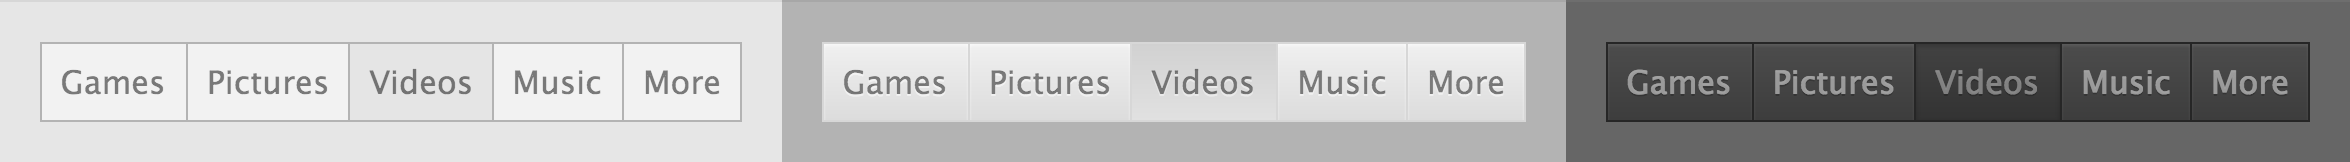
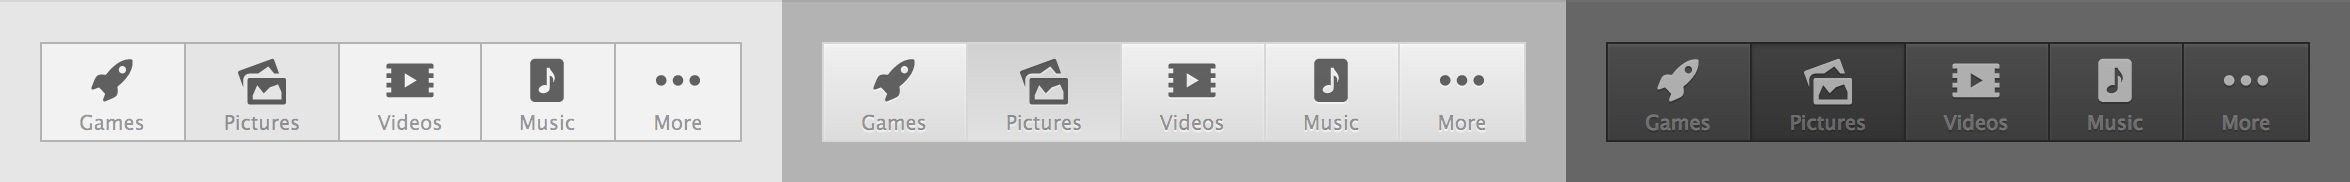
Updated some docs and screenshots

diff --git a/README.md b/README.md
@@ -5,12 +5,22 @@ Add a symlink to Montage in node_mudules/
 
 ### Components
 
-![Button](https://raw.github.com/montagejs/montage-lab/master/skeleton/mobile/components/button.reel/screenshot.png)
-![Toggle](https://raw.github.com/montagejs/montage-lab/master/skeleton/mobile/components/toggle.reel/screenshot.png)
-![Checkbox](https://raw.github.com/montagejs/montage-lab/master/skeleton/mobile/components/input-checkbox.reel/screenshot.png)
-![Radio](https://raw.github.com/montagejs/montage-lab/master/skeleton/mobile/components/input-radio.reel/screenshot.png)
-![Select](https://raw.github.com/montagejs/montage-lab/master/skeleton/mobile/components/select.reel/screenshot.png)
-![Text](https://raw.github.com/montagejs/montage-lab/master/skeleton/mobile/components/input-text.reel/screenshot.png)
-![Textarea](https://raw.github.com/montagejs/montage-lab/master/skeleton/mobile/components/textarea.reel/screenshot.png)
-![Range](https://raw.github.com/montagejs/montage-lab/master/skeleton/mobile/components/input-range.reel/screenshot.png)
-![Progress](https://raw.github.com/montagejs/montage-lab/master/skeleton/mobile/components/progress.reel/screenshot.png)
+![Button](https://raw.github.com/montagejs/digit/master/button.reel/screenshot.png)
+![Button Group](https://raw.github.com/montagejs/digit/master/button-group.reel/screenshot.png)
+![Toggle](https://raw.github.com/montagejs/digit/master/toggle.reel/screenshot.png)
+![Checkbox](https://raw.github.com/montagejs/digit/master/input-checkbox.reel/screenshot.png)
+![Radio](https://raw.github.com/montagejs/digit/master/input-radio.reel/screenshot.png)
+![Select](https://raw.github.com/montagejs/digit/master/select.reel/screenshot.png)
+![Text](https://raw.github.com/montagejs/digit/master/input-text.reel/screenshot.png)
+![Textarea](https://raw.github.com/montagejs/digit/master/textarea.reel/screenshot.png)
+![Number](https://raw.github.com/montagejs/digit/master/input-number.reel/screenshot.png)
+![Range](https://raw.github.com/montagejs/digit/master/input-range.reel/screenshot.png)
+![Progress](https://raw.github.com/montagejs/digit/master/progress.reel/screenshot.png)
+
+![Video](https://raw.github.com/montagejs/digit/master/video.reel/screenshot.png)
+![Map](https://raw.github.com/montagejs/digit/master/map.reel/screenshot.png)
+
+![Header](https://raw.github.com/montagejs/digit/master/header.reel/screenshot.png)
+![Tool Bar](https://raw.github.com/montagejs/digit/master/tool-bar.reel/screenshot.png)
+![List](https://raw.github.com/montagejs/digit/master/list.reel/screenshot.png)
+![Tab Bar](https://raw.github.com/montagejs/digit/master/tab-bar.reel/screenshot.png)

diff --git a/tab-bar.reel/README.md b/tab-bar.reel/README.md
@@ -1,7 +1,6 @@
 # Tab Bar
 
 ![Tab Bar](https://raw.github.com/montagejs/digit/master/tab-bar.reel/screenshot.png)
-![Tab Bar + icons](https://raw.github.com/montagejs/digit/master/tab-bar.reel/screenshot-icons.png)
 ![Tab Bar - icons only](https://raw.github.com/montagejs/digit/master/tab-bar.reel/screenshot-iconsonly.png)
 
 The Tab Bar wraps a `<nav>` element and adds tab buttons. It can be used as text only or with icons.
@@ -43,16 +42,13 @@ The Tab Bar wraps a `<nav>` element and adds tab buttons. It can be used as text
 
 ## Icons
 
-The Tab Bar can also be used with additional icons or icons only. A good place to find lots of icon sets is the [icomoon app](http://icomoon.io/app/). You can choose only the icons you need for smaller file size. In the example below we're using the [Entypo](http://www.entypo.com) icons. 
-
-## Icons + Label
-```html
-<button data-icon="pictures">Pictures</button>
-```
-![Tab Bar + icons](https://raw.github.com/montagejs/digit/master/tab-bar.reel/screenshot-icons.png)
+The Tab Bar is best used with icons. A good place to find lots of icon sets is the [icomoon app](http://icomoon.io/app/). You can choose only the icons you need for smaller file size. In the example below we're using the [Entypo](http://www.entypo.com) icons. 
 
 
 ## Icons only
+
+If you prefer to not show a label, you can do that by adding a `montage-TabBar--iconOnly` class.
+
 ```html
 <button class="montage-TabBar--iconOnly" data-icon="pictures">Pictures</button>
 ```

diff --git a/header.reel/README.md b/header.reel/README.md
@@ -1,0 +1,45 @@
+# Header
+
+![Header](https://raw.github.com/montagejs/digit/master/header.reel/screenshot.png)
+
+The Header components wraps a `<header>` element and adds two buttons with a title.
+
+## How to use
+
+```html
+<header data-montage-id="header"></header>
+```
+
+```json
+"header": {
+    "prototype": "montage/ui/header.reel",
+    "properties": {
+        "element": {"#": "header"}
+    }
+}
+```
+
+
+## Available properties
+
+* `...` - TBD
+
+
+
+## Customizing with CSS
+
+* `.montage-Header` - The Header component
+* `.montage-Header-title` - The Title
+* `.montage-Header .montage-Button` - The Buttons
+
+```css
+.montage-Header {
+    background-color: pink;
+}
+```
+
+
+
+## Browser support
+
+* TBD
